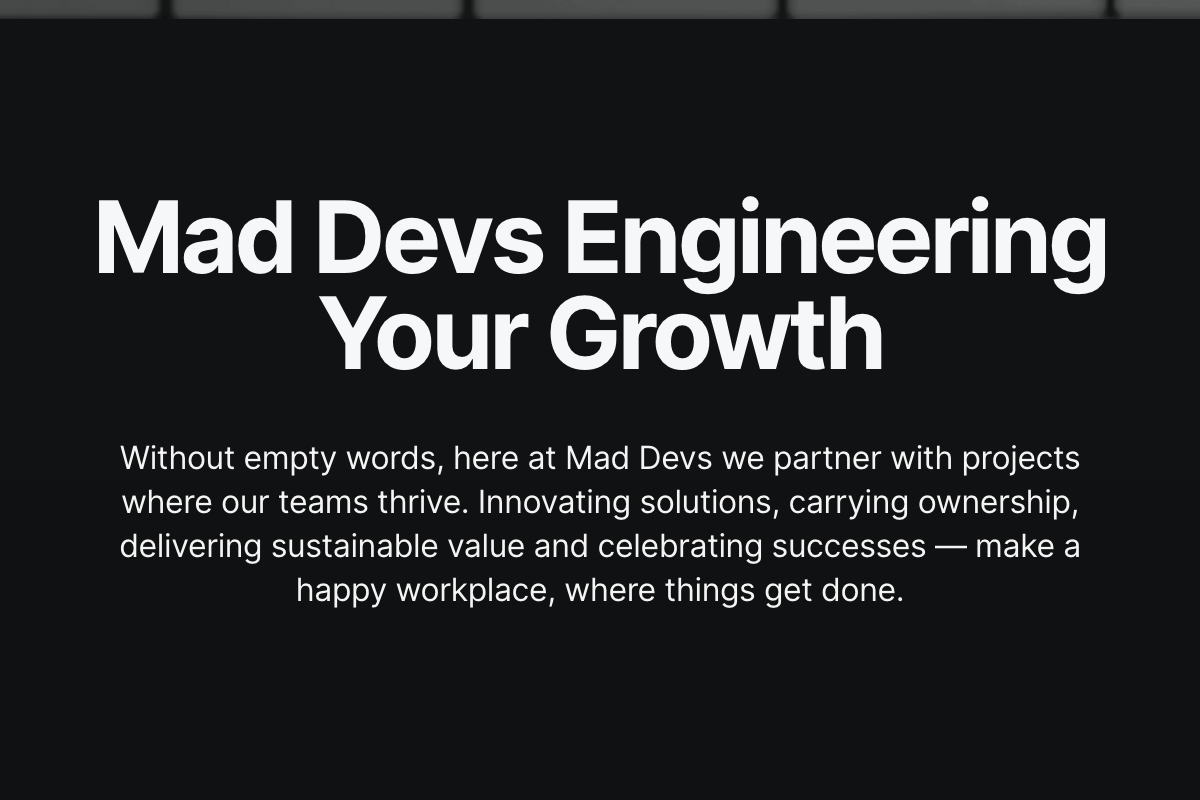
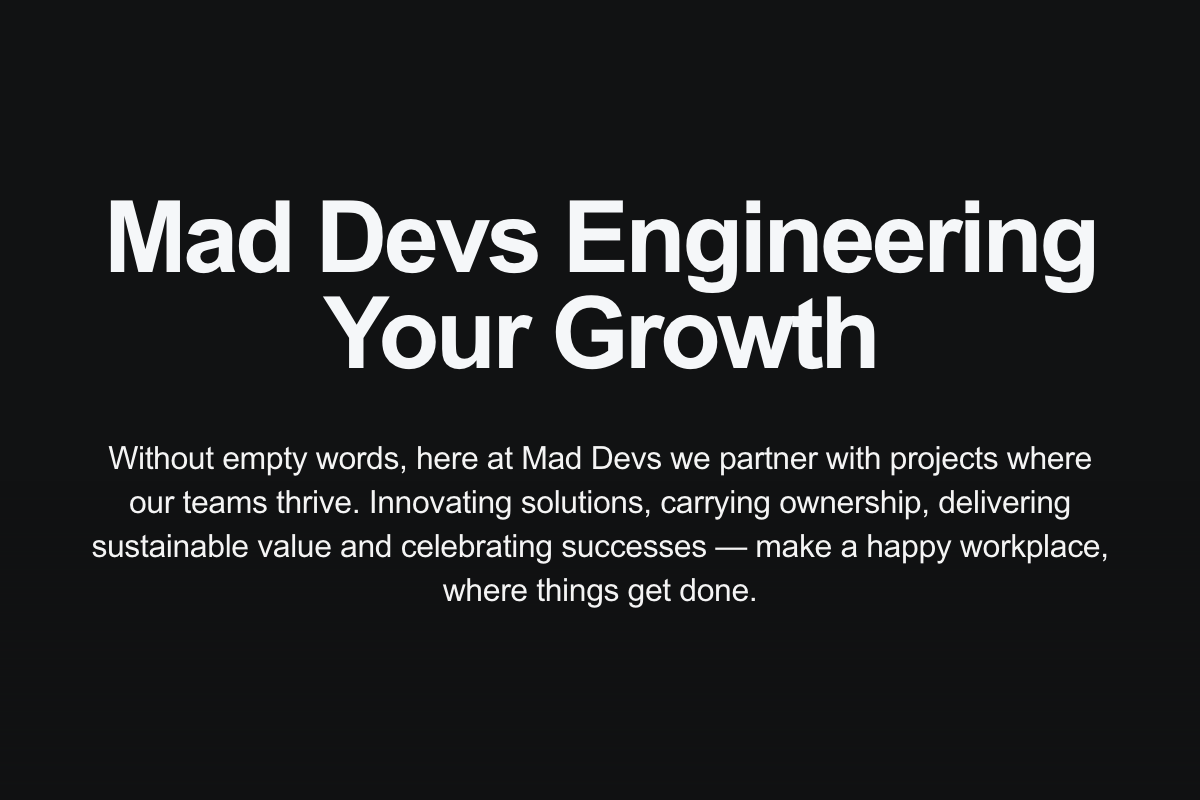
MAR-1599 Added opacity field to StartScreen slice

Changed region(s): [[0.0617, 0.5625, 0.925, 0.7812], [0.0617, 0.25, 0.925, 0.4688], [0.0, 0.0, 1.0, 0.0312]]

diff --git a/.slicemachine/assets/client/prismicSlices/pageParts/StartScreen/index.stories.js b/.slicemachine/assets/client/prismicSlices/pageParts/StartScreen/index.stories.js
@@ -18,7 +18,7 @@ export const _DefaultSlice = () => ({
   },
   data() {
     return {
-      mock: {"variation":"default-slice","name":"Default slice","slice_type":"start_screen","items":[],"primary":{"image":{"dimensions":{"width":900,"height":500},"alt":"Placeholder image","copyright":null,"url":"https://d6xkme6dcvajw.cloudfront.net/images/OpenSource/png/programmer@2x.png?w=900&h=500&fit=crop"},"title":"Mad Devs Engineering Your Growth","subtitle":"Without empty words, here at Mad Devs we partner with projects where our teams thrive. Innovating solutions, carrying ownership, delivering sustainable value and celebrating successes — make a happy workplace, where things get done. "},"id":"_DefaultSlice"}
+      mock: {"variation":"default-slice","name":"Default slice","slice_type":"start_screen","items":[],"primary":{"image":{"dimensions":{"width":900,"height":500},"alt":"Placeholder image","copyright":null,"url":"https://d6xkme6dcvajw.cloudfront.net/images/OpenSource/png/programmer@2x.png?w=900&h=500&fit=crop"},"imageOpacity":1,"title":"Mad Devs Engineering Your Growth","subtitle":"Without empty words, here at Mad Devs we partner with projects where our teams thrive. Innovating solutions, carrying ownership, delivering sustainable value and celebrating successes — make a happy workplace, where things get done. "},"id":"_DefaultSlice"}
     }
   },
   template: '<SliceZone :slices="[mock]" :resolver="resolve" />'

diff --git a/client/prismicSlices/pageParts/StartScreen/index.vue b/client/prismicSlices/pageParts/StartScreen/index.vue
@@ -3,6 +3,9 @@
     <img
       :src="image.url"
       :alt="image.alt"
+      :style="{
+        opacity: imageOpacity
+      }"
       class="start-screen-slice__image"
     >
     <div class="container">
@@ -33,6 +36,7 @@ export default {
 
   data() {
     return {
+      imageOpacity: this.slice.primary.imageOpacity,
       image: this.slice.primary.image,
       title: this.slice.primary.title,
       subtitle: this.slice.primary.subtitle,
@@ -70,6 +74,7 @@ export default {
   &__content {
     text-align: center;
     z-index: 2;
+    max-width: 1028px;
   }
   &__title {
     color: $text-color--white;

diff --git a/client/pages/about-demo.vue b/client/pages/about-demo.vue
@@ -1,8 +1,10 @@
 <template>
-  <SliceZone
-    type="custom_page"
-    uid="demo-about-page"
-  />
+  <main class="main">
+    <SliceZone
+      type="custom_page"
+      uid="demo-about-page"
+    />
+  </main>
 </template>
 
 <script>
